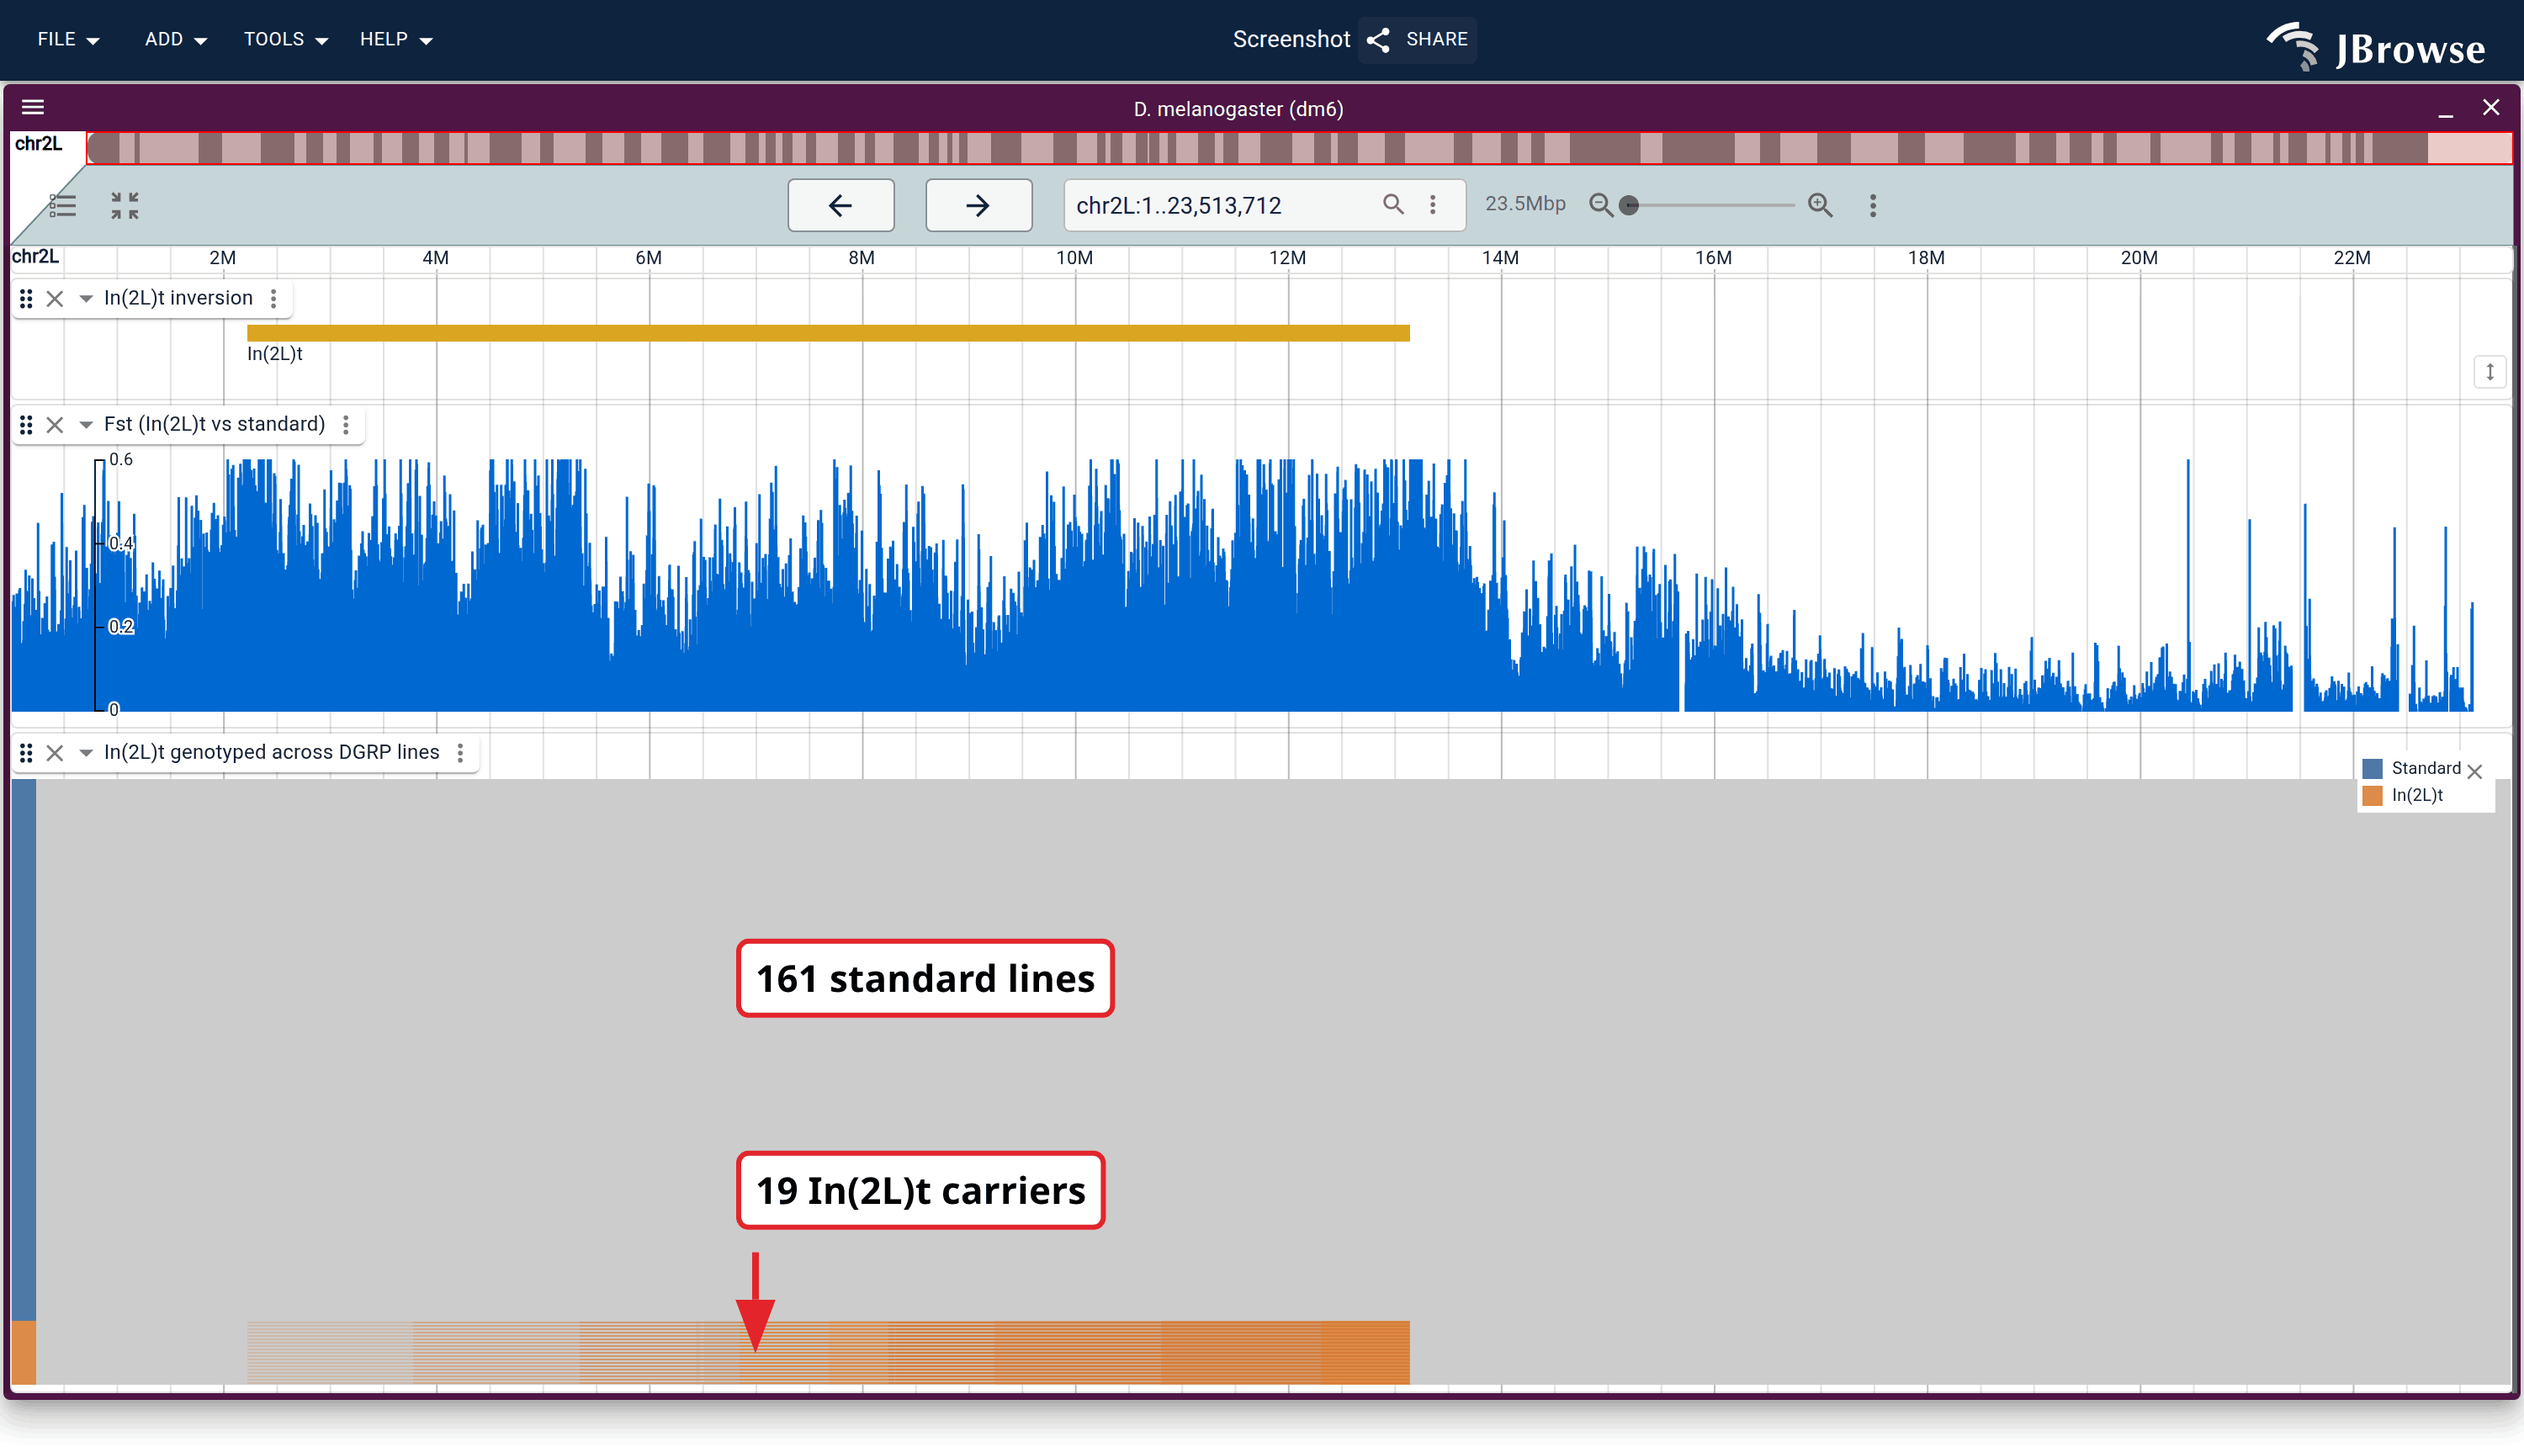
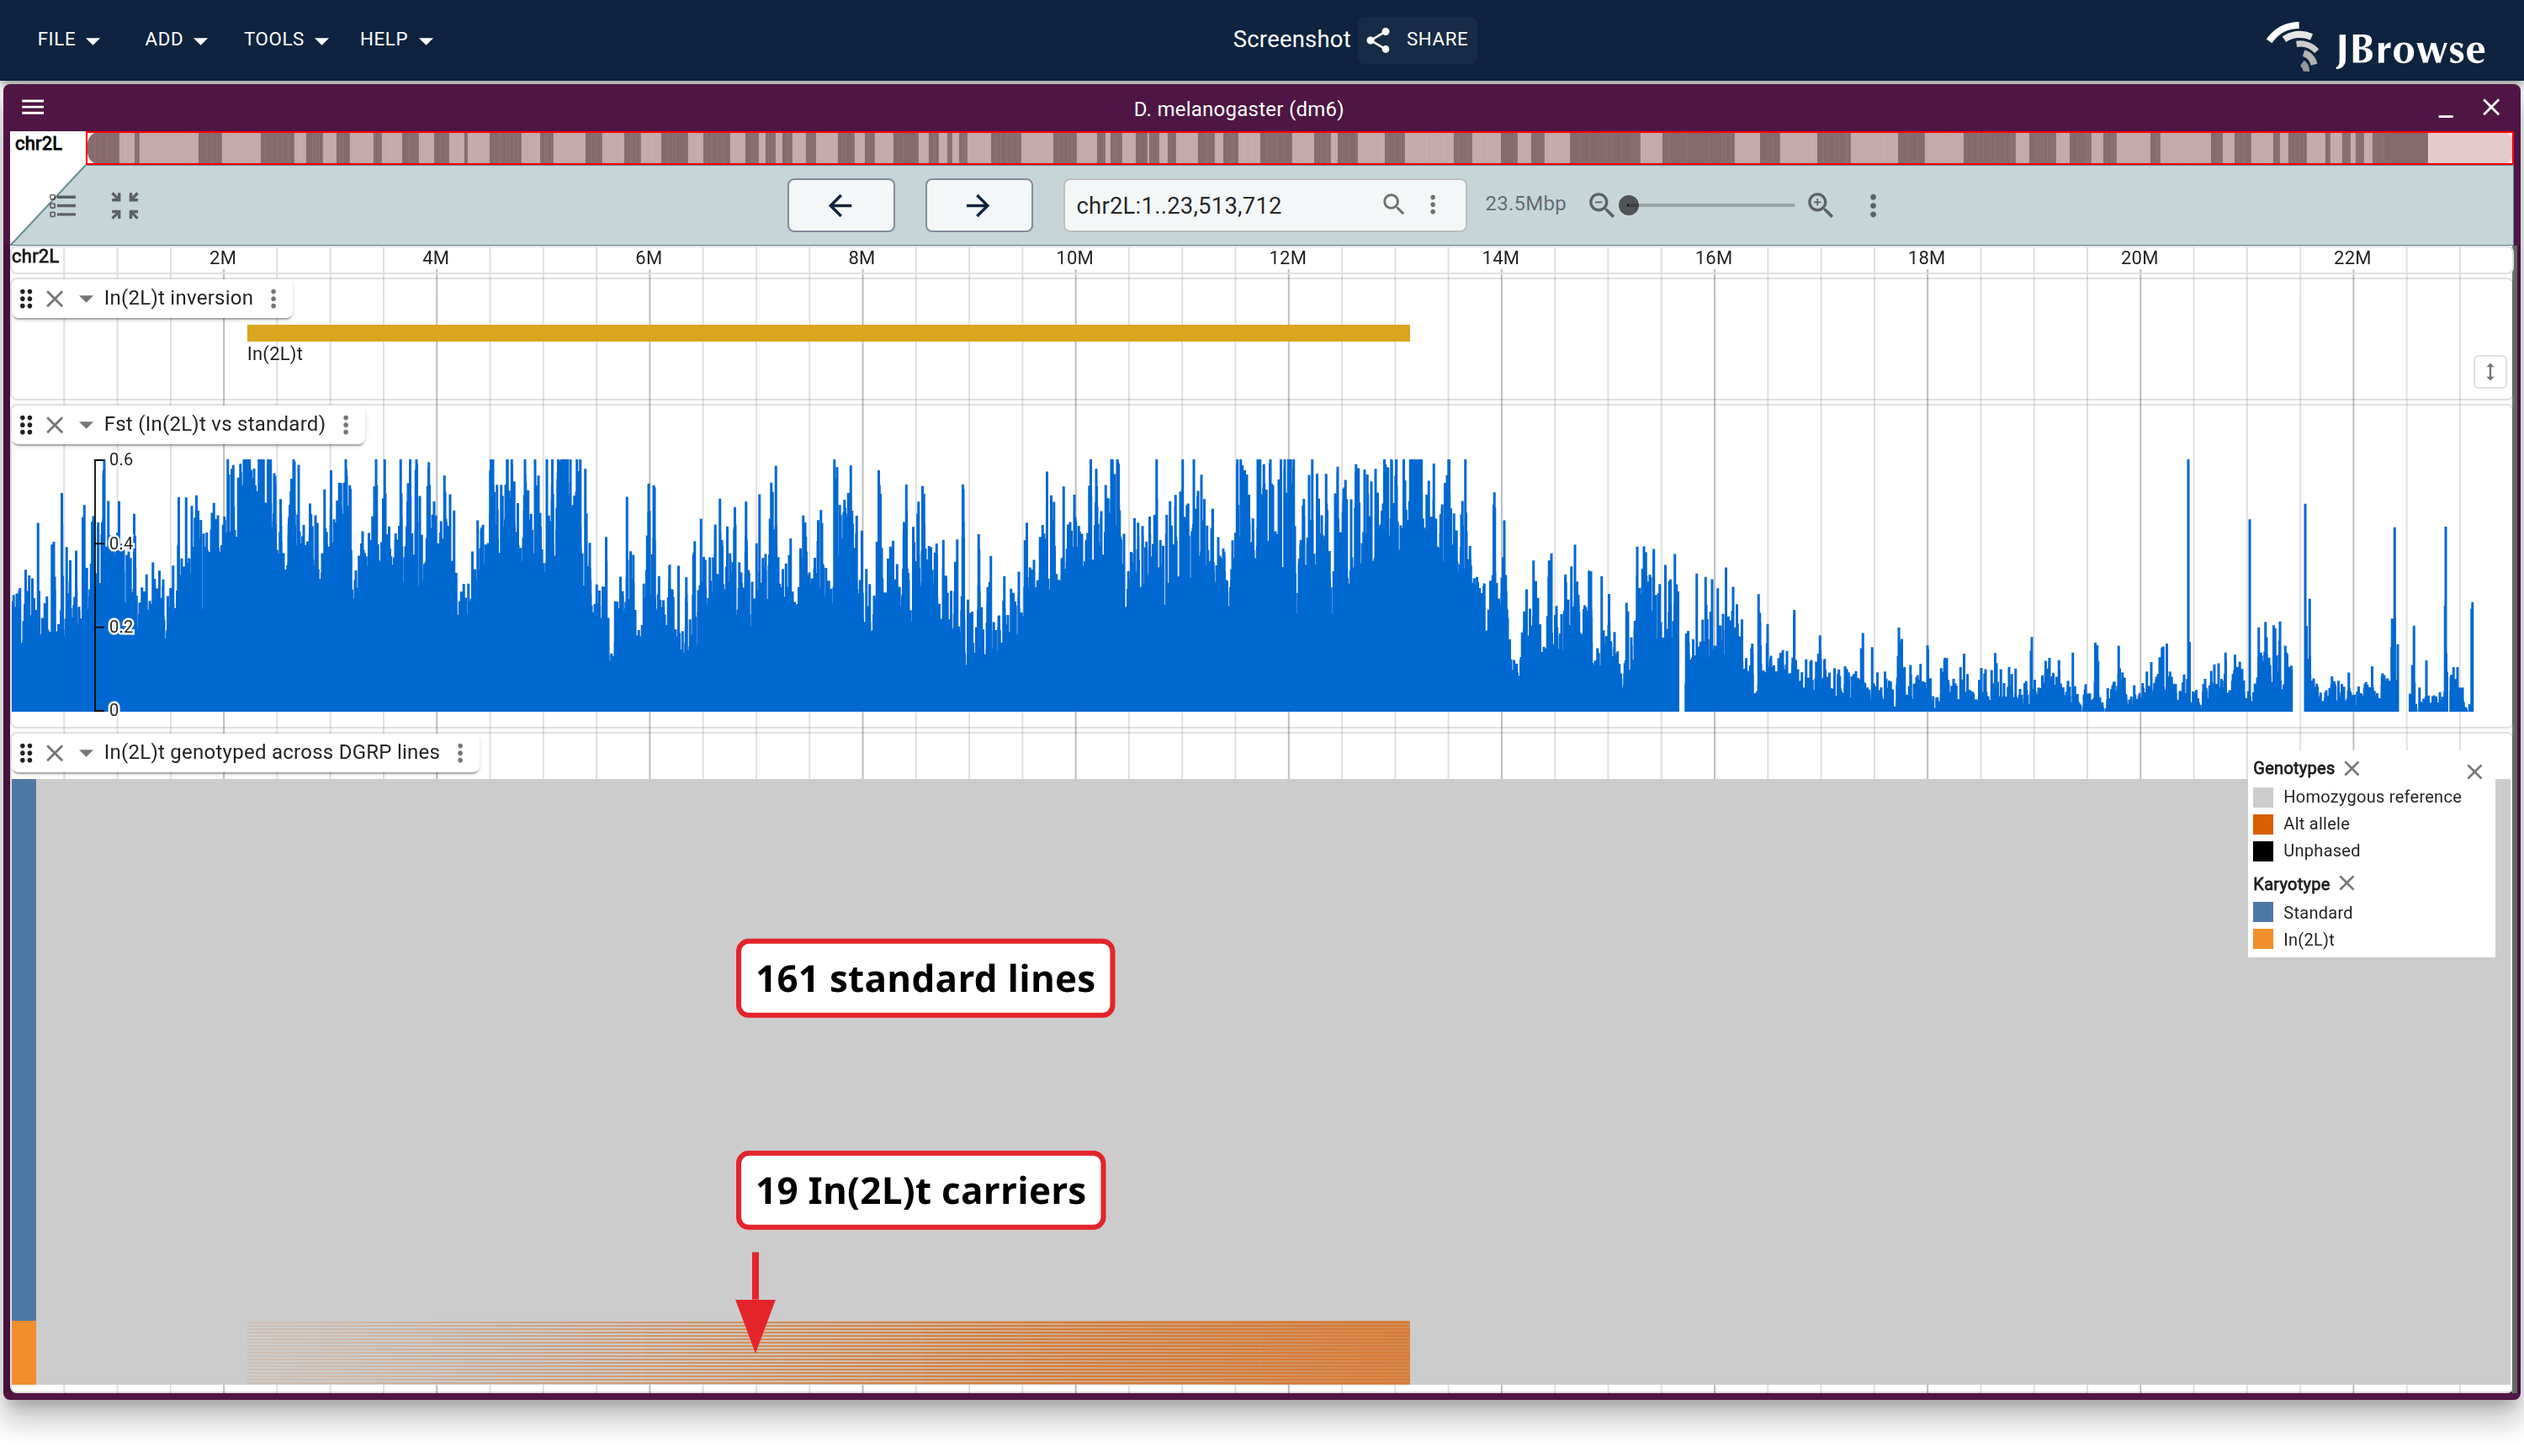
fix(variants): keep the genotype legend for a plain-color featureColor
getVariantLegendSections dropped the cell legend for any featureColor it
could not enumerate, lumping a plain CSS color in with an arbitrary jexl
expression. A plain color is exactly the case a key *can* be built for:
every alt-carrying cell is that color and ref/unphased/no-call keep their
own, so the genotype legend just needs its alt swatch recolored. Only a
real expression, whose output is unknown here, still drops the section.

Dosage shading and the secondary-alt color are gone under an override, so
the alt swatches collapse to one entry rather than describing colors
nothing paints.

popgen/in2lt_per_sample gains a Genotypes key it never had; its cells were
already repainted #d95f02 with nothing on screen to say so.

Claude-Session: https://claude.ai/code/session_011wgLHMi88bVUUXsUAn8uaR

Changed region(s): [[0.868, 0.5238, 0.992, 0.6779], [0.0, 0.8936, 0.031, 0.9552], [0.465, 0.1233, 0.496, 0.1541]]

diff --git a/plugins/variants/src/shared/variantLegend.ts b/plugins/variants/src/shared/variantLegend.ts
@@ -29,12 +29,31 @@ export function getGenotypeLegendItems({
   hasSecondaryAlt,
   hasUnphased,
   hasNoCall,
+  altColorOverride,
 }: {
   renderingMode: string
   hasSecondaryAlt: boolean
   hasUnphased: boolean
   hasNoCall: boolean
+  // A plain CSS color from `featureColor`: every alt-carrying cell is painted
+  // with it, so the alt swatches collapse to one entry in that color. Dosage
+  // shading and the secondary-alt color are gone in that case, and saying
+  // otherwise would describe a scheme that isn't on screen. Ref, unphased and
+  // no-call keep their own colors (see computeVariantMatrixCells).
+  altColorOverride?: string
 }): LegendItem[] {
+  if (altColorOverride) {
+    return [
+      {
+        color: REFERENCE_COLOR,
+        label:
+          renderingMode === 'phased' ? 'Reference' : 'Homozygous reference',
+      },
+      { color: altColorOverride, label: 'Alt allele' },
+      ...(hasUnphased ? [{ color: UNPHASED_COLOR, label: 'Unphased' }] : []),
+      ...(hasNoCall ? [{ color: NO_CALL_COLOR, label: 'No call' }] : []),
+    ]
+  }
   if (renderingMode === 'phased') {
     return [
       { color: REFERENCE_COLOR, label: 'Reference' },
@@ -170,7 +189,24 @@ export function getVariantLegendSections({
                   : []),
               ],
             }
-          : undefined
+          : // Anything left that isn't a jexl expression is a plain CSS color,
+            // which is the one custom case a key *can* be built for: every alt
+            // cell is that color and nothing else changed. Only a real
+            // expression, whose output can't be enumerated here, drops the
+            // section.
+            cellColorKey.startsWith('jexl:')
+            ? undefined
+            : {
+                id: 'genotypes',
+                title: 'Genotypes',
+                items: getGenotypeLegendItems({
+                  renderingMode,
+                  hasSecondaryAlt,
+                  hasUnphased,
+                  hasNoCall,
+                  altColorOverride: cellColorKey,
+                }),
+              }
     : {
         id: 'genotypes',
         title: 'Genotypes',

diff --git a/plugins/variants/src/shared/variantLegend.test.ts b/plugins/variants/src/shared/variantLegend.test.ts
@@ -1,3 +1,4 @@
+import { NO_CALL_COLOR, REFERENCE_COLOR } from './constants.ts'
 import { PHASE_SET_COLOR } from './getPhasedColor.ts'
 import {
   getGenotypeLegendItems,
@@ -175,6 +176,26 @@ describe('getVariantLegendSections', () => {
       { color: '#e41a1c', label: 'Deletion' },
       { color: '#377eb8', label: 'Duplication' },
       { color: '#1f77b4', label: 'INVDUP' }, // unrecognized token: raw label
+    ])
+  })
+
+  it('keeps a genotype key for a plain CSS feature color, recolored', () => {
+    const sections = getVariantLegendSections({
+      renderingMode: 'phased',
+      hasSecondaryAlt: true,
+      hasUnphased: false,
+      hasNoCall: true,
+      featureColor: '#E69F00',
+      colorBy: '',
+      sources,
+    })
+    expect(sections.map(s => s.id)).toEqual(['genotypes'])
+    // one alt entry in the override color: the secondary-alt color is
+    // overridden too, so listing it would describe a swatch nothing paints
+    expect(sections[0]!.items).toEqual([
+      { color: REFERENCE_COLOR, label: 'Reference' },
+      { color: '#E69F00', label: 'Alt allele' },
+      { color: NO_CALL_COLOR, label: 'No call' },
     ])
   })
 
